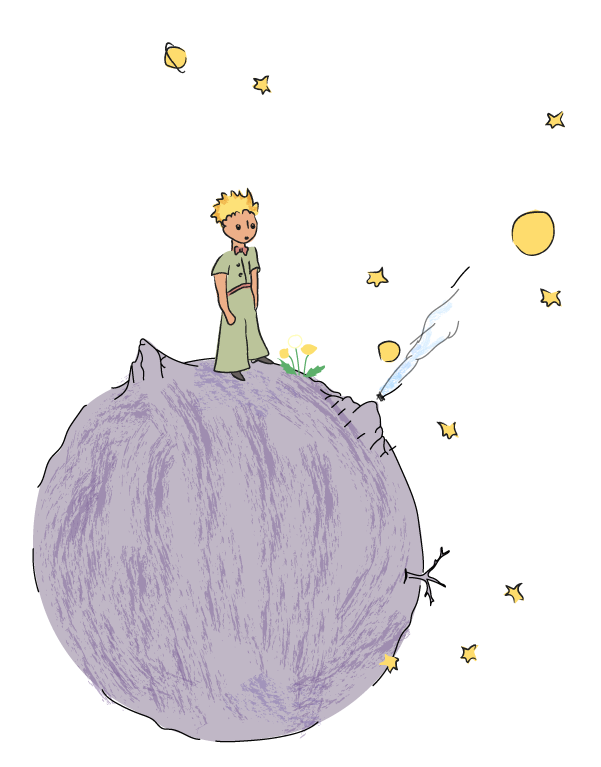
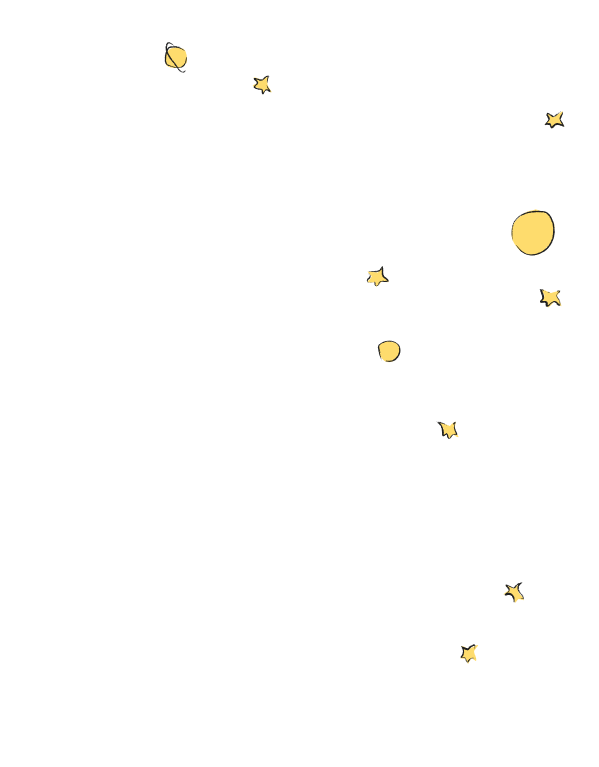
2차 완성

diff --git a/index.html b/index.html
@@ -178,9 +178,12 @@
           <!-- 많은 내용 -->
           <div class="story-wrap">
             <div class="story1-wrap">
+              <div class="story1-motion">
+                <figure><img src="./img/aboutme-img-1.png" alt="반짝이는 별" /></figure>
+              </div>
               <div class="story story1">
                 <figure data-aos="fade-up-right" data-aos-duration="1000" data-aos-easing="ease-in-out" data-aos-delay="500">
-                  <img src="./img/aboutme-img-1.png" alt="물뿜는 행성" />
+                  <img src="./img/aboutme-img-1-1.png" alt="흔들리는 행성" />
                 </figure>
                 <p>
                   <strong data-aos="fade-in" data-aos-duration="700">사막이 아름다운 것은,<br />그것이 어딘가에 우물을 감추고 있기 때문이야</strong>
@@ -195,13 +198,16 @@
               </div>
             </div>
             <div class="story story2">
-              <div class="story2-img">
-                <figure data-aos="fade-up-left" data-aos-duration="1000" data-aos-easing="ease-in-out">
-                  <img src="./img/aboutme-img-2.png" alt="나비타고 날아가는 어린왕자" />
-                </figure>
-                <p>
-                  <strong data-aos="fade-in" data-aos-duration="700">글쎄,<br />나는 나비와 친해지려면 두세마리의 애벌레는 견뎌야해</strong>
-                </p>
+              <div class="story2-butterfly" data-aos="fade-up-left" data-aos-duration="1000" data-aos-easing="ease-in-out">
+                <div class="story2-motion"></div>
+                <div class="story2-img">
+                  <figure>
+                    <img src="./img/aboutme-img-2.png" alt="나비타고 날아가는 어린왕자" />
+                  </figure>
+                  <p>
+                    <strong data-aos="fade-in" data-aos-duration="700">글쎄,<br />나는 나비와 친해지려면 두세마리의 애벌레는 견뎌야해</strong>
+                  </p>
+                </div>
               </div>
               <div class="story2-info">
                 <h3 data-aos="fade-up" data-aos-duration="300">하나의 디자인을 위해 많은 시도를 하는 디자이너</h3>

diff --git a/css/style.css b/css/style.css
@@ -515,8 +515,11 @@ h2 {
 }
 
 .story1 {
-  width: 601px;
-  height: 767px;
+  width: 437.2px;
+  height: 554.2px;
+  position: absolute;
+  left: 0;
+  top: 20%;
 }
 
 .story1-wrap {
@@ -530,6 +533,18 @@ h2 {
   height: 100%;
 }
 .story1 figure img {
+  width: 100%;
+  height: 100%;
+}
+.story1-motion {
+  width: 601px;
+  height: 767px;
+}
+.story1-motion figure {
+  width: 100%;
+  height: 100%;
+}
+.story1-motion figure img {
   width: 100%;
   height: 100%;
 }
@@ -566,6 +581,7 @@ h3 {
 .story2 {
   display: flex;
   flex-direction: row-reverse;
+  position: relative;
 }
 .story2 figure {
   width: 842px;
@@ -574,6 +590,16 @@ h3 {
 }
 .story2-img {
   position: relative;
+}
+.story2-motion {
+  position: absolute;
+  right: 37.5%;
+  top: -2%;
+  width: 600px;
+  height: 550px;
+  background: url(../img/story2-motion.png) no-repeat 0 0;
+  animation: dendalien 2s steps(5);
+  z-index: 10;
 }
 .story2-img strong {
   position: absolute;
@@ -1013,6 +1039,12 @@ button:hover {
 @keyframes dendalien {
   to {
     background-position: -1140px 0;
+  }
+}
+/* story2 나비 날아감 */
+@keyframes butterfly {
+  to {
+    background-position: -3000px 0;
   }
 }
 

diff --git a/js/script.js b/js/script.js
@@ -110,6 +110,12 @@ $(function () {
     ease: 'power1.in',
     // onComplete: () => initMoving(),
   });
+  mainTL.from('.story1', {
+    y: -20 /* translateY의 약자이다. */,
+    /* repeat: 2 */ /* 원래동작 + 2 ,*/ repeat: -1 /* infinite */,
+    yoyo: true /* alternate */,
+    duration: 2,
+  });
 
   // dandelien 홀씨 날리는 모습
   const sporeWrap = document.querySelector('.spore-wrap');
